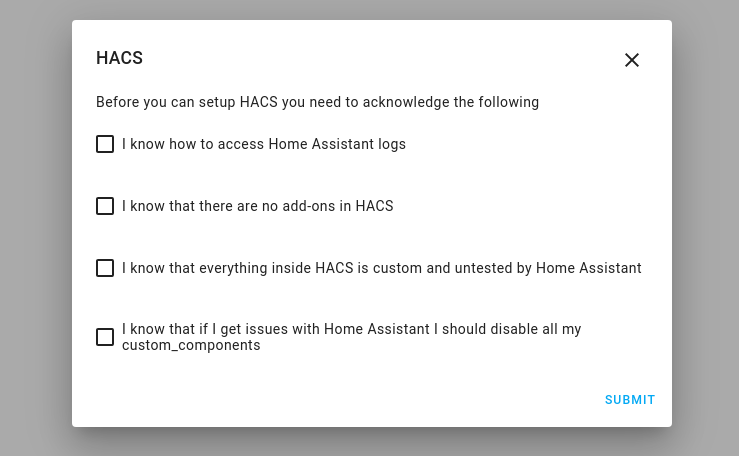
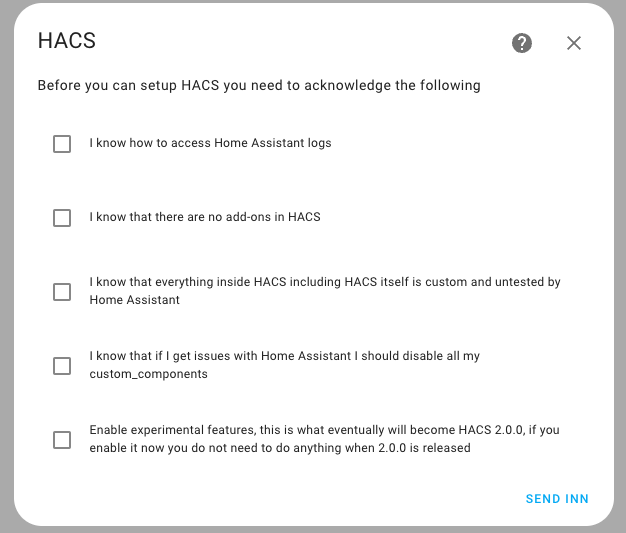
Update init config image

Changed region(s): [[0.0, 0.0, 1.0, 1.0], [0.8498, 0.1228, 0.8802, 0.1535]]

diff --git a/documentation/configuration/basic.md b/documentation/configuration/basic.md
@@ -32,7 +32,7 @@ You actually need to do this, don't skip it.
 
 ![image](/img/part1.png)
 
-None of the items are optional, you need to accept everything before you can setup HACS.
+Only the last item (experimental features) are optional, you need to accept everything above that before you can setup HACS.
 
 ## Device registration
 
